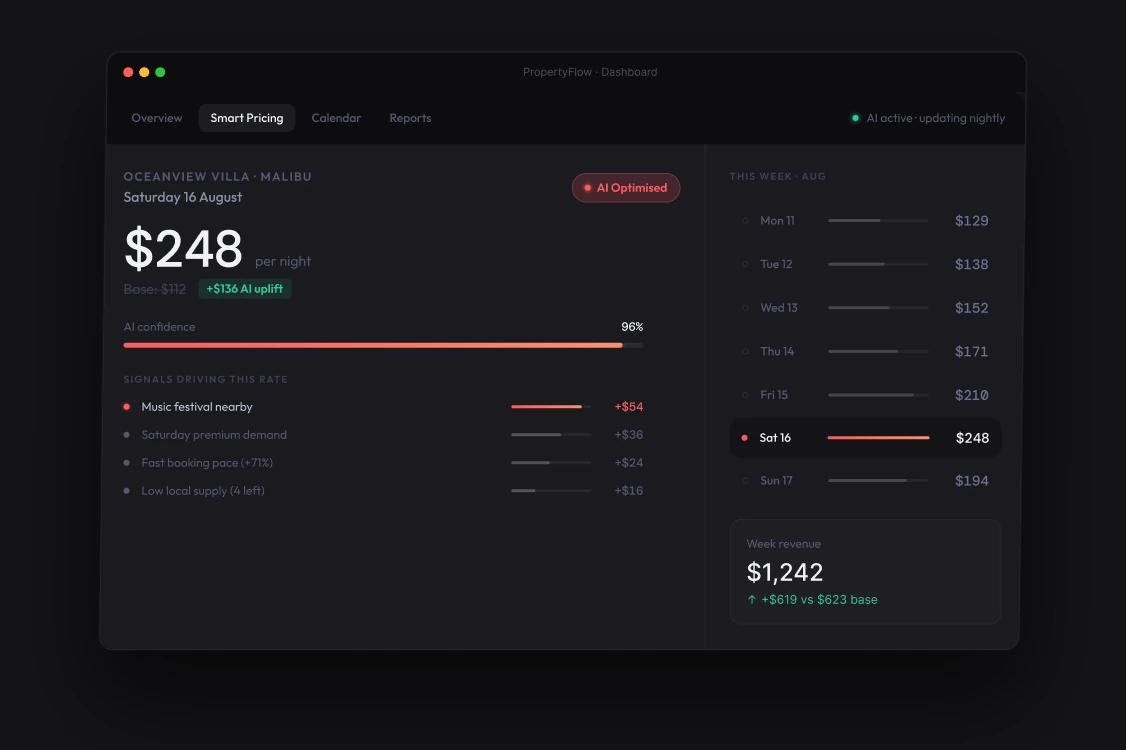
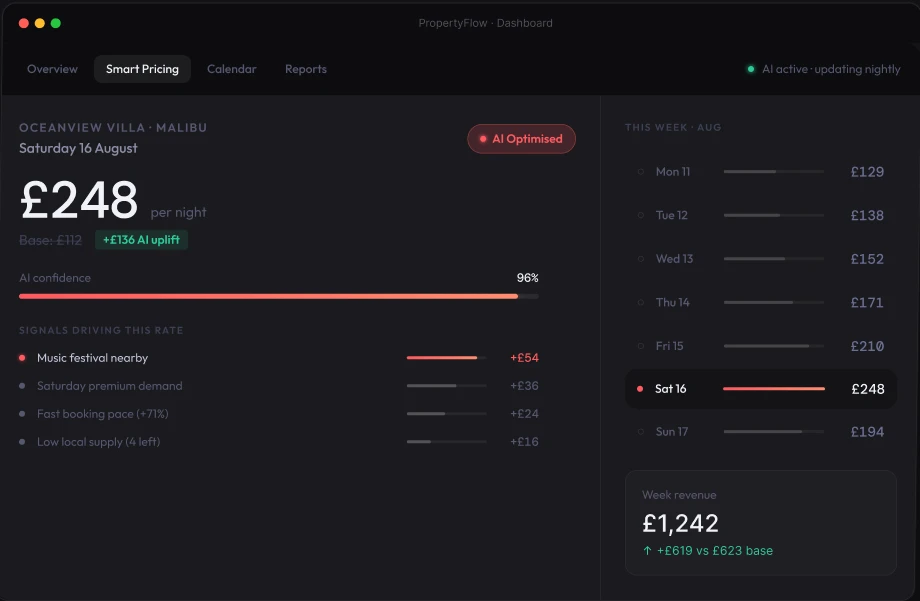
Remove Features section (not in Figma) and use £ everywhere
The "02 Features" section (Win the booking / Run the stay / Always
audit ready) lives in a disconnected, off-canvas Figma frame that
isn't part of the actual homepage flow — the real homepage goes
straight from the hero/logo-strip into "03 Why PropertyFlow" with no
"02" in between. Remove it, its now-orphaned CSS and image assets,
and repoint the hero's "Explore the platform" CTA to the Capabilities
section instead of the removed anchor.

Also replace every $ on the homepage with £:
- Hero dashboard mockup chart values (£240.8K, £125.2k, £144.6K)
- The hand-drawn "$" sidebar icon, redrawn as "£"
- The Capabilities section's "Manage booking" and "Dynamic pricing"
  screenshots, which had mismatched/stale $ figures — re-exported
  fresh from Figma (which already uses £ throughout) and re-cropped
  to match how each panel is actually composited on the page.

diff --git a/index.html b/index.html
@@ -281,7 +281,7 @@
 
         <div class="herobar__ctas">
           <a href="https://app.propertyflow.uk/register" class="btn btn--primary">Get started free <span aria-hidden="true">→</span></a>
-          <a href="#features" class="btn btn--secondary">Explore the platform</a>
+          <a href="#platform" class="btn btn--secondary">Explore the platform</a>
         </div>
 
         <!-- Dashboard mockup -->
@@ -429,7 +429,7 @@
                       <div>
                         <p class="chart-card__label">Total revenue</p>
                         <div class="chart-card__value-row">
-                          <span class="chart-card__value">$240.8K</span>
+                          <span class="chart-card__value">£240.8K</span>
                           <span class="badge badge--up">24.6% <img src="/images/design/redesign/hero/badge-arrow-up.svg" alt="" /></span>
                         </div>
                       </div>
@@ -451,7 +451,7 @@
                         <img src="/images/design/redesign/hero/chart-revenue-full.svg" alt="Revenue and expenses trend chart" class="chart-plot-area__img" />
                         <div class="chart-tooltip">
                           <div class="chart-tooltip__value-row">
-                            <span class="chart-tooltip__value">$125.2k</span>
+                            <span class="chart-tooltip__value">£125.2k</span>
                             <span class="badge badge--up">12.5% <img src="/images/design/redesign/hero/badge-arrow-up.svg" alt="" /></span>
                           </div>
                           <span class="chart-tooltip__date">June 21, 2023</span>
@@ -468,7 +468,7 @@
                       <div class="chart-card__top">
                         <p class="chart-card__label"><span class="chart-card__label-icon">↗</span>Total profit</p>
                         <span class="chart-card__value-row">
-                          <span class="chart-card__value">$144.6K</span>
+                          <span class="chart-card__value">£144.6K</span>
                           <span class="badge badge--up">28.5% <img src="/images/design/redesign/hero/badge-arrow-up.svg" alt="" /></span>
                         </span>
                       </div>
@@ -562,20 +562,6 @@
       </div>
     </section>
 
-    <!-- Feature -->
-    <section class="hd-section--tight" id="features">
-      <div class="hd-wrap hd-feature__head">
-        <div class="hd-label"><span class="hd-label__num">02</span><span class="hd-label__rule"></span><span class="hd-label__text">Features</span></div>
-        <h2 class="hd-h2">One simplified platform for<br>entire operation</h2>
-        <p class="hd-lede">Replace disconnected tools with one platform that keeps your entire business in sync.</p>
-      </div>
-      <div class="hd-feature__cards">
-        <img src="/images/design/redesign/feature/win-the-booking.webp" alt="Win the booking — get found, get priced right, get booked on every channel.">
-        <img src="/images/design/redesign/feature/run-the-stay.webp" alt="Run the stay — every message, every reservation, every changeover in sync.">
-        <img src="/images/design/redesign/feature/always-audit-ready.webp" alt="Always audit ready — financials and compliance, built in not bolted on.">
-      </div>
-    </section>
-
     <!-- Comparision -->
     <section class="hd-section hd-compare">
       <div class="hd-wrap hd-compare__head">
@@ -615,7 +601,7 @@
     </section>
 
     <!-- Capabilities -->
-    <section class="hd-section hd-capabilities">
+    <section class="hd-section hd-capabilities" id="platform">
       <div class="hd-wrap hd-capabilities__head">
         <div class="hd-label"><span class="hd-label__num">04</span><span class="hd-label__rule"></span><span class="hd-label__text">everything under one roof</span></div>
         <h2 class="hd-h2">Every feature you need to manage<br><span class="hd-h2--muted-line2">your short-term rental business.</span></h2>

diff --git a/css/home-dark.css b/css/home-dark.css
@@ -593,25 +593,6 @@ body.hd-page .hd-stats__grid--3 { grid-template-columns: repeat(3, 1fr); }
   body.hd-page .hd-stats__grid--3 .hd-stats__cell:last-child { border-bottom: none; }
 }
 
-/* ---------- Feature ---------- */
-
-body.hd-page .hd-feature__head { padding: 80px 0 20px; }
-body.hd-page .hd-feature__cards {
-  display: flex;
-  gap: 24px;
-  align-items: center;
-  justify-content: center;
-  flex-wrap: wrap;
-  padding: 60px 0 80px;
-  border-top: 0.8px solid var(--border-subtle);
-}
-body.hd-page .hd-feature__cards img {
-  width: 339px;
-  max-width: 100%;
-  border-radius: 20px;
-  box-shadow: 0 20px 60px rgba(0,0,0,0.45);
-}
-
 /* ---------- Comparision ---------- */
 
 body.hd-page .hd-compare { background: var(--bg); }
